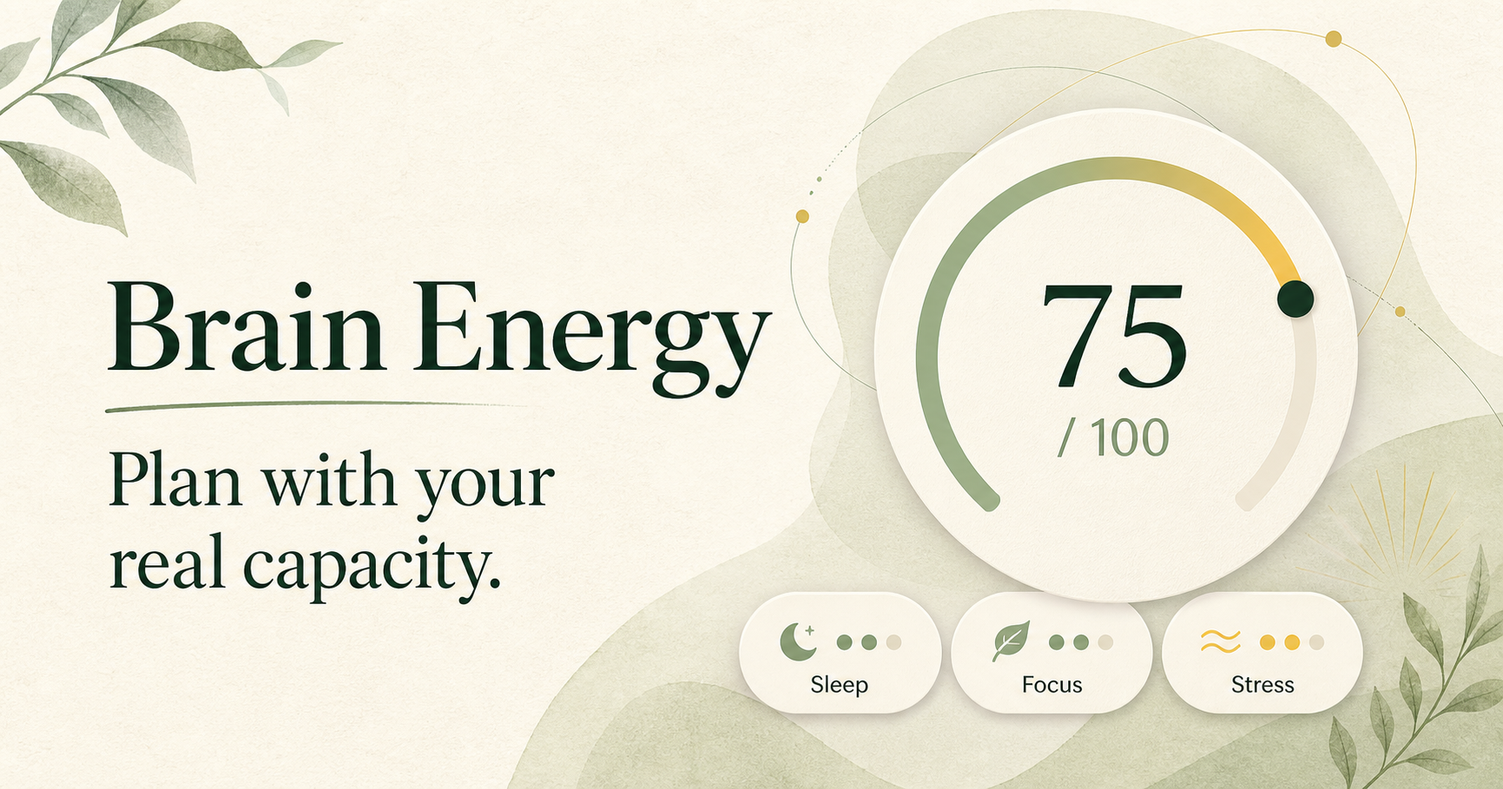
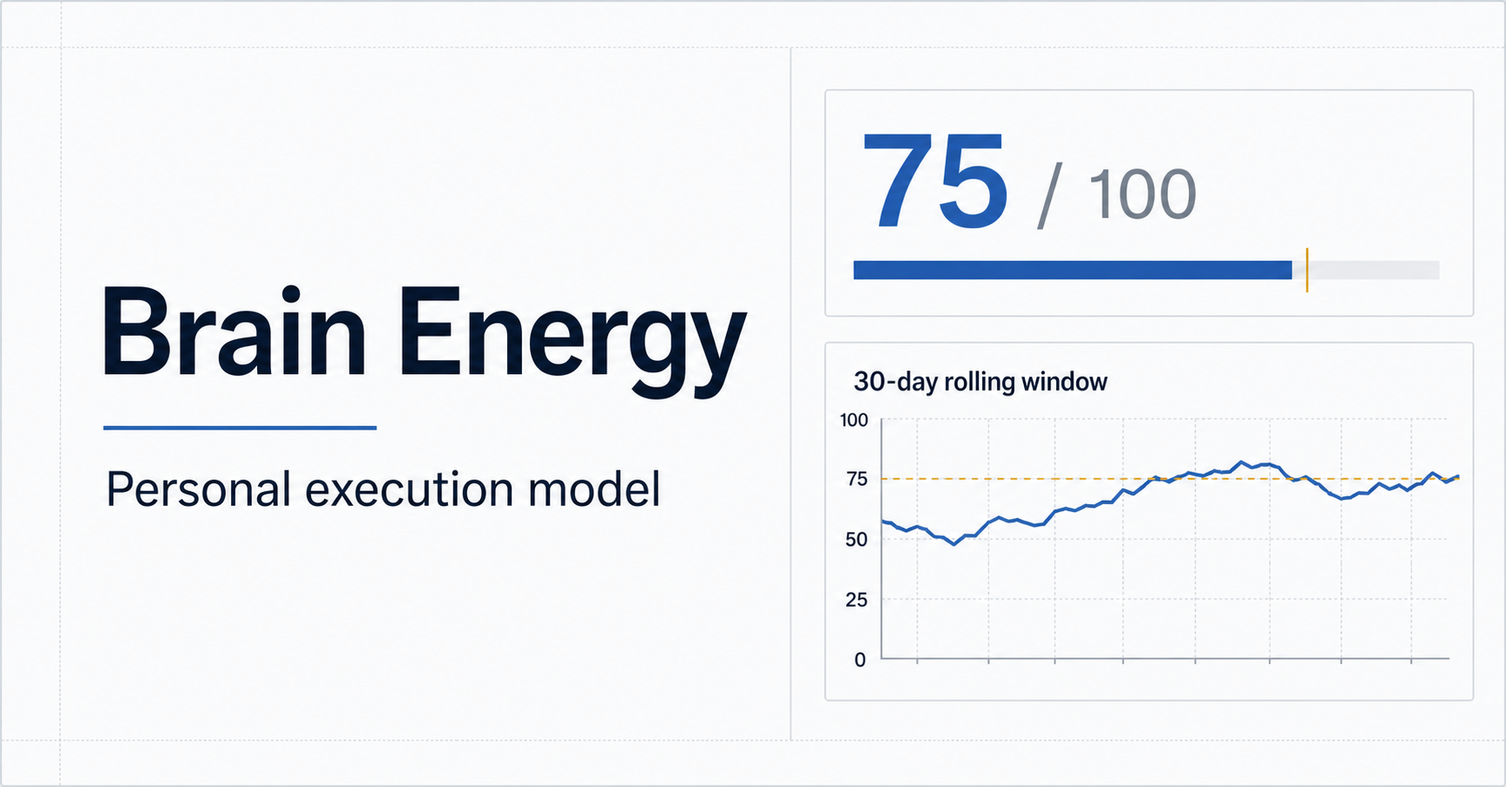
Refine Brain Energy as professional English research tool

diff --git a/app/page.tsx b/app/page.tsx
@@ -42,14 +42,15 @@ const defaultData: AppData = {
   checkIn: { sleep: 7.5, energy: 3, mood: 4, stress: 2, focus: 3, minutes: 300, exercise: false },
   checkedIn: false,
   tasks: [
-    { id: "sample-1", title: "完成研究方法作业", category: "学习", minutes: 90, energy: 28, status: "planned" },
-    { id: "sample-2", title: "法语听力练习", category: "语言", minutes: 30, energy: 12, status: "planned" },
-    { id: "sample-3", title: "晚饭后散步", category: "健康", minutes: 35, energy: 8, status: "planned" },
+    { id: "sample-1", title: "Complete research methods assignment", category: "Academic", minutes: 90, energy: 28, status: "planned" },
+    { id: "sample-2", title: "French listening practice", category: "Language", minutes: 30, energy: 12, status: "planned" },
+    { id: "sample-3", title: "Post-dinner walk", category: "Health", minutes: 35, energy: 8, status: "planned" },
   ],
   reflection: null,
 };
 
 const categoryColors: Record<string, string> = {
+  Academic: "lavender", Career: "sky", Health: "mint", Language: "peach", Life: "sand", Hobby: "rose",
   学习: "lavender",
   事业: "sky",
   健康: "mint",
@@ -65,7 +66,7 @@ function calculateCapacity(c: CheckIn) {
 }
 
 function todayLabel() {
-  return new Intl.DateTimeFormat("zh-CN", { month: "long", day: "numeric", weekday: "short" }).format(new Date());
+  return new Intl.DateTimeFormat("en-GB", { month: "long", day: "numeric", weekday: "short" }).format(new Date());
 }
 
 export default function Home() {
@@ -79,7 +80,16 @@ export default function Home() {
   useEffect(() => {
     const stored = window.localStorage.getItem("brain-energy-v1");
     if (stored) {
-      try { setData(JSON.parse(stored)); } catch { /* keep safe defaults */ }
+      try {
+        const parsed = JSON.parse(stored) as AppData;
+        const englishSamples: Record<string, Pick<Task, "title" | "category">> = {
+          "sample-1": { title: "Complete research methods assignment", category: "Academic" },
+          "sample-2": { title: "French listening practice", category: "Language" },
+          "sample-3": { title: "Post-dinner walk", category: "Health" },
+        };
+        parsed.tasks = parsed.tasks.map((task) => englishSamples[task.id] ? { ...task, ...englishSamples[task.id] } : task);
+        setData(parsed);
+      } catch { /* keep safe defaults */ }
     }
     setHydrated(true);
   }, []);
@@ -94,7 +104,7 @@ export default function Home() {
   const plannedMinutes = activeTasks.reduce((sum, task) => sum + task.minutes, 0);
   const completed = data.tasks.filter((task) => task.status === "completed").length;
   const loadRatio = Math.round((plannedEnergy / capacity) * 100);
-  const assessment = loadRatio > 100 ? "有点 ambitious" : loadRatio > 80 ? "接近上限" : "节奏刚刚好";
+  const assessment = loadRatio > 100 ? "Above estimated capacity" : loadRatio > 80 ? "Near estimated capacity" : "Within estimated capacity";
 
   function updateCheckIn(next: CheckIn) {
     setData((current) => ({ ...current, checkIn: next, checkedIn: true }));
@@ -123,16 +133,16 @@ export default function Home() {
 
       <header className="topbar">
         <div className="brand-mark" aria-hidden="true"><span /></div>
-        <div className="brand-copy"><strong>Brain Energy</strong><span>plan with your real capacity</span></div>
-        <button className="avatar" aria-label="个人设置">B</button>
+        <div className="brand-copy"><strong>Brain Energy</strong><span>Personal execution model</span></div>
+        <button className="avatar" aria-label="Profile and settings">BL</button>
       </header>
 
       {tab === "today" && (
         <section className="page today-page">
           <div className="day-heading">
-            <div><p className="eyebrow">{hydrated ? todayLabel() : "今天"}</p><h1>今天，和自己<br />站在同一边。</h1></div>
+            <div><p className="eyebrow">{hydrated ? todayLabel() : "TODAY"}</p><h1>Daily execution overview</h1></div>
             <button className={`checkin-pill ${data.checkedIn ? "done" : ""}`} onClick={() => setCheckInOpen(true)}>
-              <span>{data.checkedIn ? "✓" : "↗"}</span>{data.checkedIn ? "已记录状态" : "今日 Check-in"}
+              <span>{data.checkedIn ? "✓" : "+"}</span>{data.checkedIn ? "Check-in recorded" : "Daily check-in"}
             </button>
           </div>
 
@@ -140,58 +150,58 @@ export default function Home() {
             <div className="capacity-top">
               <div><p className="card-kicker">TODAY’S CAPACITY</p><div className="capacity-number"><strong>{capacity}</strong><span>/ 100</span></div></div>
               <div className="energy-orbit" style={{ "--capacity": `${capacity * 3.6}deg` } as React.CSSProperties}>
-                <div><span>ENERGY</span><b>{capacity >= 75 ? "充沛" : capacity >= 55 ? "平稳" : "轻缓"}</b></div>
+                <div><span>STATE</span><b>{capacity >= 75 ? "High" : capacity >= 55 ? "Moderate" : "Low"}</b></div>
               </div>
             </div>
-            <p className="capacity-note">{data.checkedIn ? "根据你今天的睡眠、压力和专注状态计算。" : "先花一分钟告诉我你今天的状态，预测会更准确。"}</p>
+            <p className="capacity-note">{data.checkedIn ? "Calculated from today's sleep, physical energy, mood, stress, and focus inputs." : "Complete the daily check-in to generate a state-based capacity estimate."}</p>
             <div className="signals">
-              <span>☾ {data.checkIn.sleep}h 睡眠</span><span>◉ 压力 {data.checkIn.stress}/5</span><span>⌁ 专注 {data.checkIn.focus}/5</span>
+              <span>Sleep {data.checkIn.sleep}h</span><span>Stress {data.checkIn.stress}/5</span><span>Focus {data.checkIn.focus}/5</span>
             </div>
           </article>
 
           <div className="section-title">
-            <div><p className="eyebrow">TODAY’S PLAN</p><h2>给今天留一点余地</h2></div>
-            <button className="round-add" aria-label="添加任务" onClick={() => setTaskOpen(true)}>＋</button>
+            <div><p className="eyebrow">TODAY’S PLAN</p><h2>Leave some margin in today’s plan</h2></div>
+            <button className="round-add" aria-label="Add task" onClick={() => setTaskOpen(true)}>＋</button>
           </div>
 
           <article className={`load-card ${loadRatio > 100 ? "warning" : ""}`}>
-            <div><span className="load-icon">{loadRatio > 100 ? "!" : "✓"}</span><div><strong>{assessment}</strong><p>{plannedEnergy} 能量 · {Math.round(plannedMinutes / 60 * 10) / 10} 小时</p></div></div>
+            <div><span className="load-icon">{loadRatio > 100 ? "!" : "✓"}</span><div><strong>{assessment}</strong><p>{plannedEnergy} energy · {Math.round(plannedMinutes / 60 * 10) / 10} hours</p></div></div>
             <span className="load-percent">{loadRatio}%</span>
             <div className="load-track"><span style={{ width: `${Math.min(loadRatio, 100)}%` }} /></div>
-            {loadRatio > 100 && <p className="warning-copy">这个计划可能比你今天的状态更有野心。可以继续，也可以为自己减轻一点。</p>}
+            {loadRatio > 100 && <p className="warning-copy">Planned energy exceeds today’s estimated capacity. This is advisory and does not block the plan.</p>}
           </article>
 
           <div className="task-list">
             {data.tasks.map((task, index) => (
               <article className={`task-card status-${task.status}`} key={task.id}>
-                <button className="task-check" aria-label={`${task.title} 状态`} onClick={() => setTaskStatus(task.id, task.status === "completed" ? "planned" : "completed")}>
+                <button className="task-check" aria-label={`${task.title} status`} onClick={() => setTaskStatus(task.id, task.status === "completed" ? "planned" : "completed")}>
                   {task.status === "completed" ? "✓" : index + 1}
                 </button>
                 <div className="task-main">
                   <span className={`category ${categoryColors[task.category] || "sand"}`}>{task.category}</span>
                   <h3>{task.title}</h3>
-                  <p>{task.minutes} 分钟 <i /> {task.energy} 能量</p>
+                  <p>{task.minutes} min <i /> {task.energy} energy</p>
                 </div>
-                <button className="task-menu" aria-label="任务操作" onClick={() => setTaskStatus(task.id, task.status === "started" ? "skipped" : "started")}>{task.status === "started" ? "跳过" : task.status === "skipped" ? "已跳过" : "开始"}</button>
+                <button className="task-menu" aria-label="Task action" onClick={() => setTaskStatus(task.id, task.status === "started" ? "skipped" : "started")}>{task.status === "started" ? "Skip" : task.status === "skipped" ? "Skipped" : "Start"}</button>
               </article>
             ))}
           </div>
 
           <button className="reflection-banner" onClick={() => setReflectionOpen(true)}>
-            <span className="moon">☾</span><span><strong>{data.reflection ? "今晚的复盘已保存" : "晚上回来看看今天"}</strong><small>{data.reflection ? `你给今天 ${data.reflection.rating}/5 分` : "不是评判，只是了解什么对你有帮助"}</small></span><b>→</b>
+            <span className="moon">R</span><span><strong>{data.reflection ? "Daily reflection recorded" : "Complete daily reflection"}</strong><small>{data.reflection ? `Overall day rating: ${data.reflection.rating}/5` : "Record outcomes and perceived capacity for model calibration."}</small></span><b>→</b>
           </button>
         </section>
       )}
 
-      {tab === "tasks" && <SimplePage eyebrow="TASK LIBRARY" title="所有任务" copy="任务是可以被安排的行动。把大任务拆到一天真正能完成的大小。" action="添加新任务" onAction={() => setTaskOpen(true)} items={data.tasks.map(t => `${t.title} · ${t.energy} 能量`)} />}
-      {tab === "ideas" && <SimplePage eyebrow="IDEA VAULT" title="想法不需要承诺" copy="先把灵感安全地放在这里。它们没有期限，也不会自动变成待办。" action="记录一个想法" items={["做一个交换旅行规划工具", "学习陶艺", "关于个人能量的播客选题"]} />}
+      {tab === "tasks" && <SimplePage eyebrow="TASK LIBRARY" title="Tasks" copy="Store actionable work with time and energy estimates. Divide large tasks into units that can be scheduled within one day." action="Add task" onAction={() => setTaskOpen(true)} items={data.tasks.map(t => `${t.title} · ${t.energy} energy`)} />}
+      {tab === "ideas" && <SimplePage eyebrow="IDEA VAULT" title="Ideas" copy="Store possible future ideas without deadlines or execution pressure. Ideas do not enter the task list unless explicitly promoted." action="Add idea" items={["Exchange travel planning tool", "Learn ceramics", "Research topic: personal capacity and execution"]} />}
       {tab === "history" && <HistoryPage capacity={capacity} completed={completed} total={data.tasks.length} />}
 
-      <nav className="bottom-nav" aria-label="主要导航">
-        <NavButton active={tab === "today"} icon="⌂" label="今天" onClick={() => setTab("today")} />
-        <NavButton active={tab === "tasks"} icon="◫" label="任务" onClick={() => setTab("tasks")} />
-        <NavButton active={tab === "ideas"} icon="◇" label="想法" onClick={() => setTab("ideas")} />
-        <NavButton active={tab === "history"} icon="↗" label="趋势" onClick={() => setTab("history")} />
+      <nav className="bottom-nav" aria-label="Primary navigation">
+        <NavButton active={tab === "today"} icon="01" label="Today" onClick={() => setTab("today")} />
+        <NavButton active={tab === "tasks"} icon="02" label="Tasks" onClick={() => setTab("tasks")} />
+        <NavButton active={tab === "ideas"} icon="03" label="Ideas" onClick={() => setTab("ideas")} />
+        <NavButton active={tab === "history"} icon="04" label="Analysis" onClick={() => setTab("history")} />
       </nav>
 
       {checkInOpen && <CheckInSheet initial={data.checkIn} onClose={() => setCheckInOpen(false)} onSave={updateCheckIn} />}
@@ -211,11 +221,11 @@ function SimplePage({ eyebrow, title, copy, action, items, onAction }: { eyebrow
 
 function HistoryPage({ capacity, completed, total }: { capacity: number; completed: number; total: number }) {
   const bars = [52, 68, 61, 79, 73, capacity, 0];
-  return <section className="page sub-page"><p className="eyebrow">YOUR PATTERNS</p><h1>慢慢认识自己</h1><p className="page-copy">模型只学习最近 30 个日历日。现在先忠实记录，不急着下结论。</p><article className="model-card"><span>30 DAY MODEL</span><strong>冷启动 · 收集中</strong><p>至少 10 个完整记录日后，才开始生成个人系数。</p><div className="model-progress"><i style={{ width: "10%" }} /></div><small>1 / 10 个有效记录日</small></article><article className="chart-card"><div><strong>最近 7 天容量</strong><span>平均 {Math.round(bars.filter(Boolean).reduce((a,b) => a+b, 0) / 6)}</span></div><div className="bars">{bars.map((height, i) => <span key={i} style={{ height: `${height || 8}%` }} className={i === 5 ? "current" : ""} />)}</div><div className="days">{["四","五","六","日","一","今","明"].map(d => <small key={d}>{d}</small>)}</div></article><article className="insight-card"><span>今天的事实</span><strong>{completed} / {total} 项完成</strong><p>这是执行记录，不是对你能力的评价。</p></article></section>;
+  return <section className="page sub-page"><p className="eyebrow">MODEL & ANALYSIS</p><h1>Execution patterns</h1><p className="page-copy">The personal model uses eligible observations from the most recent 30 calendar days. Historical records remain available but do not influence the active coefficients.</p><article className="model-card"><span>30-DAY ROLLING MODEL</span><strong>Cold start · collecting observations</strong><p>Personal coefficients will be estimated after at least 10 complete daily records.</p><div className="model-progress"><i style={{ width: "10%" }} /></div><small>1 / 10 eligible records</small></article><article className="chart-card"><div><strong>Capacity · last 7 days</strong><span>Mean {Math.round(bars.filter(Boolean).reduce((a,b) => a+b, 0) / 6)}</span></div><div className="bars">{bars.map((height, i) => <span key={i} style={{ height: `${height || 8}%` }} className={i === 5 ? "current" : ""} />)}</div><div className="days">{["Thu","Fri","Sat","Sun","Mon","Now","Next"].map(d => <small key={d}>{d}</small>)}</div></article><article className="insight-card"><span>TODAY’S RECORD</span><strong>{completed} / {total} tasks completed</strong><p>Execution outcome recorded for future analysis.</p></article></section>;
 }
 
 function Sheet({ title, intro, onClose, children }: { title: string; intro: string; onClose: () => void; children: React.ReactNode }) {
-  return <div className="sheet-backdrop" role="presentation" onMouseDown={(e) => e.target === e.currentTarget && onClose()}><section className="sheet" role="dialog" aria-modal="true" aria-label={title}><div className="sheet-handle" /><button className="sheet-close" onClick={onClose}>×</button><p className="eyebrow">DAILY PRACTICE</p><h2>{title}</h2><p className="sheet-intro">{intro}</p>{children}</section></div>;
+  return <div className="sheet-backdrop" role="presentation" onMouseDown={(e) => e.target === e.currentTarget && onClose()}><section className="sheet" role="dialog" aria-modal="true" aria-label={title}><div className="sheet-handle" /><button className="sheet-close" onClick={onClose}>×</button><p className="eyebrow">DATA ENTRY</p><h2>{title}</h2><p className="sheet-intro">{intro}</p>{children}</section></div>;
 }
 
 function Scale({ label, value, onChange, low, high }: { label: string; value: number; onChange: (v: number) => void; low: string; high: string }) {
@@ -224,15 +234,16 @@ function Scale({ label, value, onChange, low, high }: { label: string; value: nu
 
 function CheckInSheet({ initial, onClose, onSave }: { initial: CheckIn; onClose: () => void; onSave: (value: CheckIn) => void }) {
   const [form, setForm] = useState(initial);
-  return <Sheet title="你今天感觉怎么样？" intro="没有正确答案。用一分钟记录此刻真实的你。" onClose={onClose}><form onSubmit={(e) => { e.preventDefault(); onSave(form); }}><label className="field"><span><strong>睡了多久</strong><small>小时</small></span><input type="number" step="0.5" min="0" max="14" value={form.sleep} onChange={e => setForm({ ...form, sleep: Number(e.target.value) })} /></label><Scale label="身体能量" value={form.energy} low="很低" high="充沛" onChange={energy => setForm({ ...form, energy })} /><Scale label="心情" value={form.mood} low="低落" high="很好" onChange={mood => setForm({ ...form, mood })} /><Scale label="压力" value={form.stress} low="轻松" high="很高" onChange={stress => setForm({ ...form, stress })} /><Scale label="专注" value={form.focus} low="涣散" high="清晰" onChange={focus => setForm({ ...form, focus })} /><label className="field"><span><strong>今天可用时间</strong><small>分钟</small></span><input type="number" min="0" max="1440" value={form.minutes} onChange={e => setForm({ ...form, minutes: Number(e.target.value) })} /></label><label className="toggle-field"><span><strong>今天有运动吗？</strong><small>哪怕只是散步</small></span><input type="checkbox" checked={form.exercise} onChange={e => setForm({ ...form, exercise: e.target.checked })} /></label><button className="submit-button">生成今日容量 <span>→</span></button></form></Sheet>;
+  return <Sheet title="Daily check-in" intro="Record the variables used to estimate today’s execution capacity." onClose={onClose}><form onSubmit={(e) => { e.preventDefault(); onSave(form); }}><label className="field"><span><strong>Sleep duration</strong><small>hours</small></span><input type="number" step="0.5" min="0" max="14" value={form.sleep} onChange={e => setForm({ ...form, sleep: Number(e.target.value) })} /></label><Scale label="Physical energy" value={form.energy} low="Low" high="High" onChange={energy => setForm({ ...form, energy })} /><Scale label="Mood" value={form.mood} low="Low" high="High" onChange={mood => setForm({ ...form, mood })} /><Scale label="Stress" value={form.stress} low="Low" high="High" onChange={stress => setForm({ ...form, stress })} /><Scale label="Focus" value={form.focus} low="Low" high="High" onChange={focus => setForm({ ...form, focus })} /><label className="field"><span><strong>Available time</strong><small>minutes</small></span><input type="number" min="0" max="1440" value={form.minutes} onChange={e => setForm({ ...form, minutes: Number(e.target.value) })} /></label><label className="toggle-field"><span><strong>Exercise completed</strong><small>Any intentional physical activity</small></span><input type="checkbox" checked={form.exercise} onChange={e => setForm({ ...form, exercise: e.target.checked })} /></label><button className="submit-button">Calculate capacity <span>→</span></button></form></Sheet>;
 }
 
 function TaskSheet({ onClose, onSave }: { onClose: () => void; onSave: (task: Omit<Task, "id" | "status">) => void }) {
-  const [title, setTitle] = useState(""); const [category, setCategory] = useState("学习"); const [minutes, setMinutes] = useState(45); const [energy, setEnergy] = useState(15);
-  return <Sheet title="给今天加一件事" intro="估计它需要多少时间和能量，不用追求完美。" onClose={onClose}><form onSubmit={(e: FormEvent) => { e.preventDefault(); if (title.trim()) onSave({ title: title.trim(), category, minutes, energy }); }}><label className="text-field"><span>任务名称</span><input autoFocus required placeholder="例如：完成论文提纲" value={title} onChange={e => setTitle(e.target.value)} /></label><label className="text-field"><span>分类</span><select value={category} onChange={e => setCategory(e.target.value)}>{Object.keys(categoryColors).map(c => <option key={c}>{c}</option>)}</select></label><div className="field-row"><label className="text-field"><span>预计分钟</span><input type="number" min="5" value={minutes} onChange={e => setMinutes(Number(e.target.value))} /></label><label className="text-field"><span>预计能量</span><input type="number" min="1" max="100" value={energy} onChange={e => setEnergy(Number(e.target.value))} /></label></div><button className="submit-button">加入今日计划 <span>＋</span></button></form></Sheet>;
+  const [title, setTitle] = useState(""); const [category, setCategory] = useState("Academic"); const [minutes, setMinutes] = useState(45); const [energy, setEnergy] = useState(15);
+  const categories = ["Academic", "Career", "Health", "Language", "Life", "Hobby"];
+  return <Sheet title="Add task to today" intro="Estimate the time and energy required for this execution unit." onClose={onClose}><form onSubmit={(e: FormEvent) => { e.preventDefault(); if (title.trim()) onSave({ title: title.trim(), category, minutes, energy }); }}><label className="text-field"><span>Task title</span><input autoFocus required placeholder="e.g. Draft literature review outline" value={title} onChange={e => setTitle(e.target.value)} /></label><label className="text-field"><span>Category</span><select value={category} onChange={e => setCategory(e.target.value)}>{categories.map(c => <option key={c}>{c}</option>)}</select></label><div className="field-row"><label className="text-field"><span>Estimated minutes</span><input type="number" min="5" value={minutes} onChange={e => setMinutes(Number(e.target.value))} /></label><label className="text-field"><span>Estimated energy</span><input type="number" min="1" max="100" value={energy} onChange={e => setEnergy(Number(e.target.value))} /></label></div><button className="submit-button">Add to today’s plan <span>＋</span></button></form></Sheet>;
 }
 
 function ReflectionSheet({ initial, capacity, onClose, onSave }: { initial: Reflection | null; capacity: number; onClose: () => void; onSave: (r: Reflection) => void }) {
   const [rating, setRating] = useState(initial?.rating || 3); const [perceived, setPerceived] = useState(initial?.perceivedCapacity || capacity); const [note, setNote] = useState(initial?.note || "");
-  return <Sheet title="今天真实地发生了什么？" intro="复盘不是打分。它帮助未来的计划更懂你。" onClose={onClose}><form onSubmit={e => { e.preventDefault(); onSave({ rating, perceivedCapacity: perceived, note, savedAt: new Date().toISOString() }); }}><Scale label="今天整体感受" value={rating} low="很难" high="很好" onChange={setRating} /><label className="range-field"><span><strong>回头看，实际容量</strong><b>{perceived}/100</b></span><input type="range" min="0" max="100" value={perceived} onChange={e => setPerceived(Number(e.target.value))} /></label><label className="text-field"><span>有什么帮助了你，或阻碍了你？</span><textarea rows={4} value={note} onChange={e => setNote(e.target.value)} placeholder="可选。写给未来的自己……" /></label><button className="submit-button">保存今晚的观察 <span>✓</span></button></form></Sheet>;
+  return <Sheet title="Daily reflection" intro="Record execution outcomes and a retrospective capacity estimate for model calibration." onClose={onClose}><form onSubmit={e => { e.preventDefault(); onSave({ rating, perceivedCapacity: perceived, note, savedAt: new Date().toISOString() }); }}><Scale label="Overall day rating" value={rating} low="Low" high="High" onChange={setRating} /><label className="range-field"><span><strong>Retrospective capacity</strong><b>{perceived}/100</b></span><input type="range" min="0" max="100" value={perceived} onChange={e => setPerceived(Number(e.target.value))} /></label><label className="text-field"><span>Relevant factors or exceptions</span><textarea rows={4} value={note} onChange={e => setNote(e.target.value)} placeholder="Optional notes for later analysis" /></label><button className="submit-button">Save reflection <span>✓</span></button></form></Sheet>;
 }

diff --git a/app/globals.css b/app/globals.css
@@ -38,3 +38,78 @@ h1,h2,h3,p { margin-top:0; }.day-heading h1,.sub-page h1 { margin:0; font-family
 @media (min-width:700px){ body{padding:24px 0}.app-shell{min-height:calc(100dvh - 48px);border-radius:32px}.bottom-nav{bottom:24px;border-radius:0 0 32px 32px}.sheet{margin-bottom:24px;border-radius:28px} }
 @media (max-width:390px){.day-heading{align-items:flex-start;flex-direction:column}.day-heading h1{font-size:31px}.checkin-pill{align-self:flex-end;margin-top:-42px}.capacity-card{padding:20px}.energy-orbit{width:88px;height:88px}.capacity-number strong{font-size:54px}}
 @media (prefers-reduced-motion:reduce){*{animation:none!important;scroll-behavior:auto!important}}
+
+/* Professional research-tool visual system */
+:root { --ink:#172033; --muted:#647086; --paper:#f4f6f8; --card:#ffffff; --sage:#2f5ea8; --sage-dark:#244b86; --line:#dce1e8; --yellow:#d7a928; }
+html { background:#e9edf2; }
+body { font-family:Inter,-apple-system,BlinkMacSystemFont,"Segoe UI",Roboto,Arial,sans-serif; }
+.app-shell { background:var(--paper); box-shadow:0 0 0 1px #d9dee6; }
+.ambient { display:none; }
+.topbar { height:68px; padding:14px 20px; border-bottom:1px solid #d9dee6; background:#fff; }
+.brand-mark { width:34px; height:34px; margin-right:10px; border:0; border-radius:5px; background:#18365f; transform:none; color:#fff; }
+.brand-mark:before { content:"BE"; position:static; width:auto; height:auto; border:0; border-radius:0; transform:none; font-size:10px; font-weight:700; letter-spacing:.06em; }
+.brand-mark:after,.brand-mark span { display:none; }
+.brand-copy { line-height:1.1; }
+.brand-copy strong { font-family:inherit; font-size:15px; font-weight:650; letter-spacing:-.1px; }
+.brand-copy span { margin-top:4px; color:#758095; font-size:8px; letter-spacing:.12em; }
+.avatar { width:32px; height:32px; border-radius:5px; background:#eef1f5; color:#42506a; font-size:10px; }
+.today-page { padding-top:25px; }
+.day-heading { align-items:center; }
+.day-heading h1,.sub-page h1 { font-family:inherit; font-size:23px; line-height:1.25; font-weight:650; letter-spacing:-.35px; }
+.eyebrow,.card-kicker { margin-bottom:6px; color:#748096; font-size:9px; letter-spacing:.13em; }
+.checkin-pill { border-color:#c8d0dc; border-radius:6px; background:#fff; padding:7px 10px 7px 7px; font-size:10px; font-weight:600; }
+.checkin-pill span { width:22px; height:22px; border-radius:4px; background:#244b86; }
+.capacity-card { margin-top:21px; padding:20px; border-color:#d7dde6; border-radius:9px; background:#fff; box-shadow:none; }
+.capacity-card:after { display:none; }
+.capacity-number strong { font-family:inherit; font-size:52px; font-weight:600; letter-spacing:-2px; }
+.energy-orbit { width:88px; height:88px; padding:5px; background:conic-gradient(#2f5ea8 var(--capacity),#e3e7ed 0); }
+.energy-orbit:before { width:10px; height:10px; right:10px; top:5px; background:#d7a928; box-shadow:0 0 0 3px #fff; }
+.energy-orbit>div { background:#fff; }
+.energy-orbit b { font-family:inherit; font-size:13px; font-weight:600; }
+.energy-orbit span { font-size:7px; letter-spacing:.14em; }
+.capacity-note { margin:14px 0 13px; color:#657188; font-size:11px; }
+.signals { gap:6px; }
+.signals span { border:1px solid #dfe4eb; border-radius:4px; padding:5px 8px; background:#f5f7f9; color:#58657a; font-size:9px; }
+.section-title { margin-top:28px; }
+.section-title h2 { font-family:inherit; font-size:16px; font-weight:600; }
+.round-add { width:34px; height:34px; border-radius:5px; border-color:#cbd2dd; box-shadow:none; font-size:18px; }
+.load-card { border-radius:7px; border-color:#d8dee7; background:#f0f4f9; }
+.load-icon { width:25px; height:25px; border-radius:4px; background:#2f5ea8; }
+.load-track { background:#d9e0e9; }
+.load-track span { background:#2f5ea8; }
+.load-card.warning { background:#fff8e8; border-color:#dfc57b; }
+.load-card.warning .load-icon,.load-card.warning .load-track span { background:#9a6d00; }
+.task-list { gap:8px; }
+.task-card { padding:13px; border-radius:7px; border-color:#dce1e8; background:#fff; box-shadow:none; }
+.task-check { width:29px; height:29px; border-radius:4px; background:#f5f7f9; }
+.category { border-radius:3px; font-size:7px; }
+.task-main h3 { font-family:inherit; font-size:13px; font-weight:600; }
+.task-menu { padding:6px 8px; border:1px solid #d7dde5; border-radius:4px; background:#fff; color:#42516a; font-size:9px; }
+.reflection-banner { margin-top:14px; padding:14px; border:1px solid #223b5f; border-radius:7px; background:#18365f; }
+.reflection-banner .moon { width:31px; height:31px; border-radius:4px; background:#fff; color:#18365f; font-family:inherit; font-size:11px; font-weight:700; }
+.reflection-banner strong { font-family:inherit; font-size:11px; font-weight:600; }
+.reflection-banner small { color:#c2cede; }
+.bottom-nav { height:68px; border-top-color:#d6dce5; background:rgba(255,255,255,.96); }
+.bottom-nav button { gap:3px; color:#7a8597; }
+.bottom-nav button span { font-family:ui-monospace,SFMono-Regular,Menlo,monospace; font-size:9px; font-weight:600; }
+.bottom-nav button small { font-size:8px; }
+.bottom-nav button.active { color:#244b86; }
+.bottom-nav button.active span { width:30px; height:23px; border-radius:4px; background:#e6edf7; }
+.sub-page { padding-top:34px; }
+.sub-page h1 { font-size:24px; }
+.page-copy { margin:10px 0 22px; color:#616d82; font-size:11px; line-height:1.65; }
+.primary-button,.submit-button { border-radius:5px; background:#244b86; box-shadow:none; }
+.simple-list article,.model-card,.chart-card,.insight-card { border-radius:7px; background:#fff; }
+.simple-list strong,.model-card>strong,.insight-card>strong { font-family:inherit; font-weight:600; }
+.model-card>strong,.insight-card>strong { font-size:16px; }
+.model-progress i,.bars span.current { background:#2f5ea8; }
+.bars span { background:#dce3ec; border-radius:3px 3px 0 0; }
+.sheet { border-radius:10px 10px 0 0; background:#f7f8fa; }
+.sheet h2 { font-family:inherit; font-size:20px; font-weight:650; }
+.sheet-handle { background:#cdd3dc; }
+.sheet-close { border-radius:4px; }
+.field>input,.text-field input,.text-field select,.text-field textarea { border-radius:5px; }
+.scale-buttons button { border-radius:4px; }
+.scale-buttons button.selected { border-color:#244b86; background:#244b86; }
+.range-field input,.toggle-field input { accent-color:#244b86; }
+@media (min-width:700px){.app-shell{border-radius:10px}.bottom-nav{border-radius:0 0 10px 10px}.sheet{border-radius:10px}}

diff --git a/app/layout.tsx b/app/layout.tsx
@@ -8,12 +8,12 @@ export async function generateMetadata(): Promise<Metadata> {
   const protocol = requestHeaders.get("x-forwarded-proto") ?? (host.startsWith("localhost") ? "http" : "https");
   const origin = `${protocol}://${host}`;
   return {
-    title: "Brain Energy — Plan with your real capacity",
-    description: "A personal execution and self-learning system that plans around your real energy.",
+    title: "Brain Energy — Personal execution model",
+    description: "A personal research tool for capacity estimation, execution tracking, and 30-day rolling model analysis.",
     icons: { icon: "/favicon.svg", shortcut: "/favicon.svg" },
     openGraph: {
       title: "Brain Energy",
-      description: "Plan with your real capacity.",
+      description: "Personal execution model with a 30-day rolling window.",
       images: [{ url: `${origin}/og.png`, width: 1732, height: 909, alt: "Brain Energy capacity preview" }],
     },
     twitter: { card: "summary_large_image", images: [`${origin}/og.png`] },
@@ -21,5 +21,5 @@ export async function generateMetadata(): Promise<Metadata> {
 }
 
 export default function RootLayout({ children }: Readonly<{ children: React.ReactNode }>) {
-  return <html lang="zh-CN"><body>{children}</body></html>;
+  return <html lang="en"><body>{children}</body></html>;
 }
